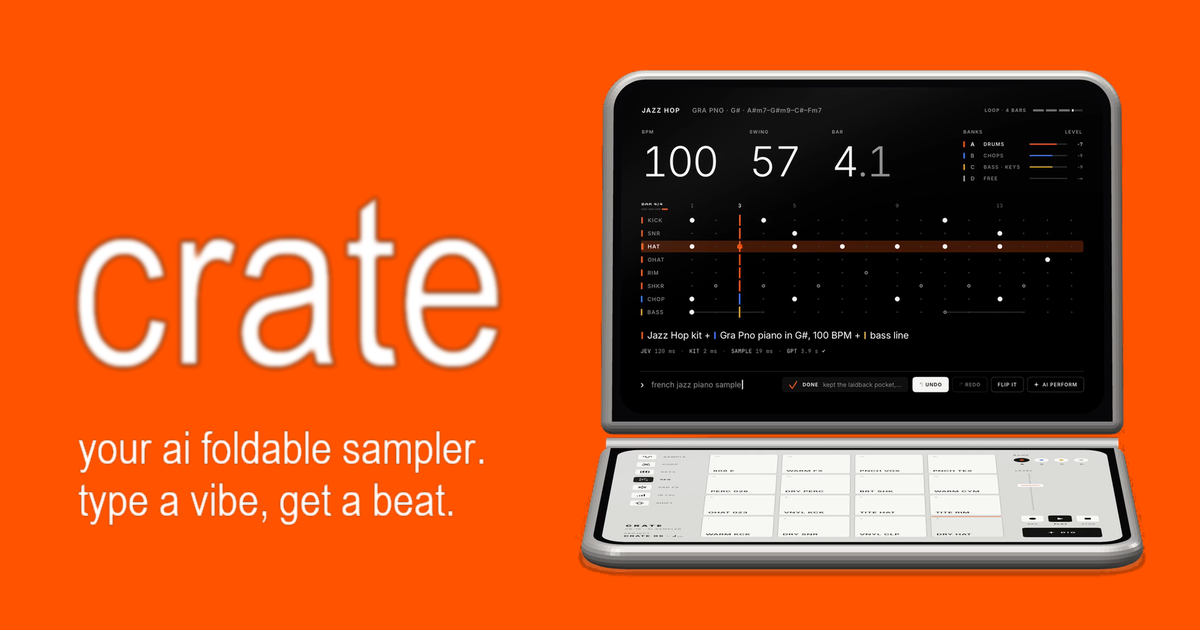
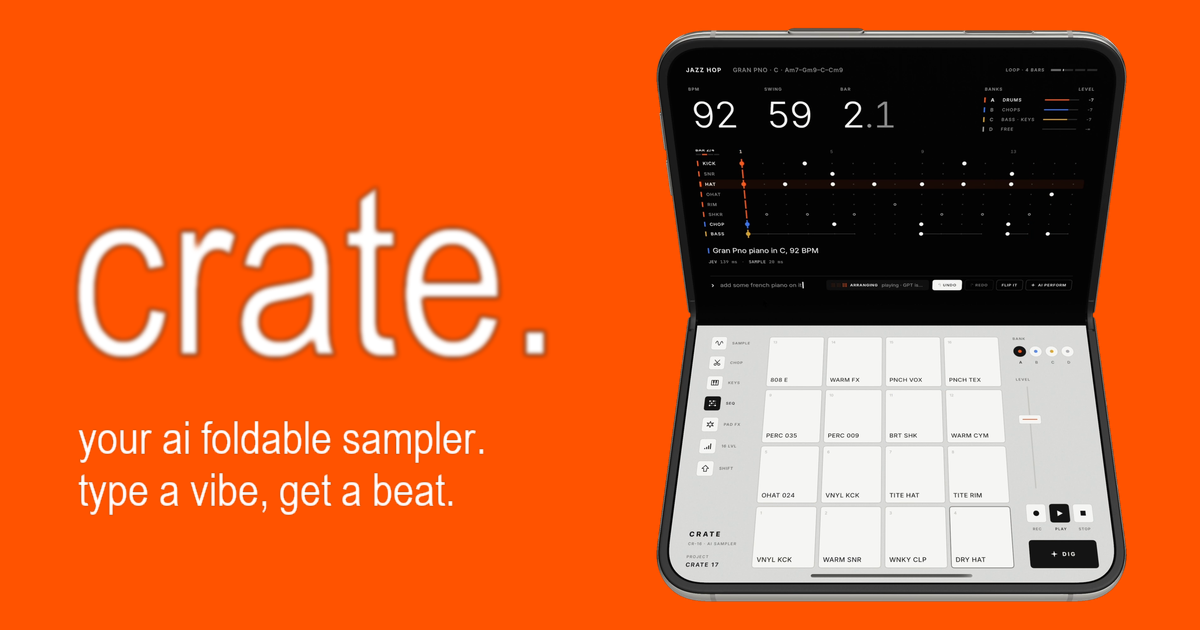
Site: real iPhone Duo (Bitrig) front-on laptop pose, bigger preview, new OG card

diff --git a/site/angle-a.html b/site/angle-a.html
@@ -35,7 +35,7 @@
     display: flex; flex-direction: column; align-items: center; justify-content: center;
     text-align: center;
   }
-  .word { margin-bottom: 28px; }
+  .word { margin-bottom: 18px; }
   .shot { width: 100%; margin: 0 0 28px; }
   .copy { margin: 0 0 32px; }
   #waitlist { width: 100%; max-width: 440px; margin: 0; }
@@ -44,7 +44,7 @@
   /* one typeface, one scale: 160 / 44 / 22 / 18 */
   .brat {
     font-family: var(--narrow); font-weight: 400;
-    font-size: clamp(130px, 22vh, 240px); line-height: .74; letter-spacing: -.035em;
+    font-size: clamp(130px, 22vh, 240px); line-height: .8; letter-spacing: -.035em;
     filter: blur(2.2px); margin: 0; user-select: none;
   }
   .copy {
@@ -72,14 +72,14 @@
   .note { min-height: 22px; font-size: 18px; margin: 10px 0 0; filter: var(--soft); }
 
   figure { margin: 0; }
-  figure img { width: auto; max-width: 100%; height: auto; max-height: 42vh; display: block; margin: 0 auto; }
+  figure img { width: auto; max-width: 100%; height: auto; max-height: 40vh; display: block; margin: 0 auto; }
 
   footer { font-size: 18px; filter: none; opacity: 1; }
 
   @media (max-width: 520px) {
     main { justify-content: flex-start; padding-block: 28px 32px; }
-    .brat { font-size: clamp(110px, 36vw, 170px); line-height: .74; }
-    .word { margin-bottom: 22px; }
+    .brat { font-size: clamp(110px, 36vw, 170px); }
+    .word { margin-bottom: 12px; }
     .shot { margin-bottom: 24px; }
     figure img { max-height: none; width: 100%; }
     .copy { font-size: clamp(26px, 7.4vw, 34px); margin-bottom: 24px; }
@@ -93,7 +93,7 @@
 <main>
   <div class="word"><h1 class="brat">crate.</h1></div>
   <figure class="shot">
-    <img src="duo-book.png" alt="crate running on an iphone duo: a beat on the top screen, 16 pads on the bottom screen.">
+    <img src="crate-duo-a.png" alt="crate running on an iphone duo: a beat on the top screen, 16 pads on the bottom screen.">
   </figure>
   <p class="copy">your ai foldable sampler.<br>type a vibe, get a beat.</p>
   <form id="waitlist" novalidate>

diff --git a/site/angle-b.html b/site/angle-b.html
@@ -35,7 +35,7 @@
     display: flex; flex-direction: column; align-items: center; justify-content: center;
     text-align: center;
   }
-  .word { margin-bottom: 28px; }
+  .word { margin-bottom: 18px; }
   .shot { width: 100%; margin: 0 0 28px; }
   .copy { margin: 0 0 32px; }
   #waitlist { width: 100%; max-width: 440px; margin: 0; }
@@ -44,7 +44,7 @@
   /* one typeface, one scale: 160 / 44 / 22 / 18 */
   .brat {
     font-family: var(--narrow); font-weight: 400;
-    font-size: clamp(130px, 22vh, 240px); line-height: .74; letter-spacing: -.035em;
+    font-size: clamp(130px, 22vh, 240px); line-height: .8; letter-spacing: -.035em;
     filter: blur(2.2px); margin: 0; user-select: none;
   }
   .copy {
@@ -72,14 +72,14 @@
   .note { min-height: 22px; font-size: 18px; margin: 10px 0 0; filter: var(--soft); }
 
   figure { margin: 0; }
-  figure img { width: auto; max-width: 100%; height: auto; max-height: 42vh; display: block; margin: 0 auto; }
+  figure img { width: auto; max-width: 100%; height: auto; max-height: 40vh; display: block; margin: 0 auto; }
 
   footer { font-size: 18px; filter: none; opacity: 1; }
 
   @media (max-width: 520px) {
     main { justify-content: flex-start; padding-block: 28px 32px; }
-    .brat { font-size: clamp(110px, 36vw, 170px); line-height: .74; }
-    .word { margin-bottom: 22px; }
+    .brat { font-size: clamp(110px, 36vw, 170px); }
+    .word { margin-bottom: 12px; }
     .shot { margin-bottom: 24px; }
     figure img { max-height: none; width: 100%; }
     .copy { font-size: clamp(26px, 7.4vw, 34px); margin-bottom: 24px; }
@@ -93,7 +93,7 @@
 <main>
   <div class="word"><h1 class="brat">crate.</h1></div>
   <figure class="shot">
-    <img src="duo-book.png" alt="crate running on an iphone duo: a beat on the top screen, 16 pads on the bottom screen.">
+    <img src="crate-duo-b.png" alt="crate running on an iphone duo: a beat on the top screen, 16 pads on the bottom screen.">
   </figure>
   <p class="copy">your ai foldable sampler.<br>type a vibe, get a beat.</p>
   <form id="waitlist" novalidate>

diff --git a/site/angle-c.html b/site/angle-c.html
@@ -35,7 +35,7 @@
     display: flex; flex-direction: column; align-items: center; justify-content: center;
     text-align: center;
   }
-  .word { margin-bottom: 28px; }
+  .word { margin-bottom: 18px; }
   .shot { width: 100%; margin: 0 0 28px; }
   .copy { margin: 0 0 32px; }
   #waitlist { width: 100%; max-width: 440px; margin: 0; }
@@ -44,7 +44,7 @@
   /* one typeface, one scale: 160 / 44 / 22 / 18 */
   .brat {
     font-family: var(--narrow); font-weight: 400;
-    font-size: clamp(130px, 22vh, 240px); line-height: .74; letter-spacing: -.035em;
+    font-size: clamp(130px, 22vh, 240px); line-height: .8; letter-spacing: -.035em;
     filter: blur(2.2px); margin: 0; user-select: none;
   }
   .copy {
@@ -72,14 +72,14 @@
   .note { min-height: 22px; font-size: 18px; margin: 10px 0 0; filter: var(--soft); }
 
   figure { margin: 0; }
-  figure img { width: auto; max-width: 100%; height: auto; max-height: 42vh; display: block; margin: 0 auto; }
+  figure img { width: auto; max-width: 100%; height: auto; max-height: 40vh; display: block; margin: 0 auto; }
 
   footer { font-size: 18px; filter: none; opacity: 1; }
 
   @media (max-width: 520px) {
     main { justify-content: flex-start; padding-block: 28px 32px; }
-    .brat { font-size: clamp(110px, 36vw, 170px); line-height: .74; }
-    .word { margin-bottom: 22px; }
+    .brat { font-size: clamp(110px, 36vw, 170px); }
+    .word { margin-bottom: 12px; }
     .shot { margin-bottom: 24px; }
     figure img { max-height: none; width: 100%; }
     .copy { font-size: clamp(26px, 7.4vw, 34px); margin-bottom: 24px; }
@@ -93,7 +93,7 @@
 <main>
   <div class="word"><h1 class="brat">crate.</h1></div>
   <figure class="shot">
-    <img src="duo-book.png" alt="crate running on an iphone duo: a beat on the top screen, 16 pads on the bottom screen.">
+    <img src="crate-duo-c.png" alt="crate running on an iphone duo: a beat on the top screen, 16 pads on the bottom screen.">
   </figure>
   <p class="copy">your ai foldable sampler.<br>type a vibe, get a beat.</p>
   <form id="waitlist" novalidate>

diff --git a/site/orange-v1.html b/site/orange-v1.html
@@ -35,7 +35,7 @@
     display: flex; flex-direction: column; align-items: center; justify-content: center;
     text-align: center;
   }
-  .word { margin-bottom: 28px; }
+  .word { margin-bottom: 18px; }
   .shot { width: 100%; margin: 0 0 28px; }
   .copy { margin: 0 0 32px; }
   #waitlist { width: 100%; max-width: 440px; margin: 0; }
@@ -44,7 +44,7 @@
   /* one typeface, one scale: 160 / 44 / 22 / 18 */
   .brat {
     font-family: var(--narrow); font-weight: 400;
-    font-size: clamp(130px, 22vh, 240px); line-height: .74; letter-spacing: -.035em;
+    font-size: clamp(130px, 22vh, 240px); line-height: .8; letter-spacing: -.035em;
     filter: blur(2.2px); margin: 0; user-select: none;
   }
   .copy {
@@ -72,14 +72,14 @@
   .note { min-height: 22px; font-size: 18px; margin: 10px 0 0; filter: var(--soft); }
 
   figure { margin: 0; }
-  figure img { width: auto; max-width: 100%; height: auto; max-height: 42vh; display: block; margin: 0 auto; }
+  figure img { width: auto; max-width: 100%; height: auto; max-height: 40vh; display: block; margin: 0 auto; }
 
   footer { font-size: 18px; filter: none; opacity: 1; }
 
   @media (max-width: 520px) {
     main { justify-content: flex-start; padding-block: 28px 32px; }
-    .brat { font-size: clamp(110px, 36vw, 170px); line-height: .74; }
-    .word { margin-bottom: 22px; }
+    .brat { font-size: clamp(110px, 36vw, 170px); }
+    .word { margin-bottom: 12px; }
     .shot { margin-bottom: 24px; }
     figure img { max-height: none; width: 100%; }
     .copy { font-size: clamp(26px, 7.4vw, 34px); margin-bottom: 24px; }
@@ -93,7 +93,7 @@
 <main>
   <div class="word"><h1 class="brat">crate.</h1></div>
   <figure class="shot">
-    <img src="duo-book.png" alt="crate running on an iphone duo: a beat on the top screen, 16 pads on the bottom screen.">
+    <img src="crate-duo.png" alt="crate running on an iphone duo: a beat on the top screen, 16 pads on the bottom screen.">
   </figure>
   <p class="copy">your ai foldable sampler.<br>type a vibe, get a beat.</p>
   <form id="waitlist" novalidate>

diff --git a/site/duo-laptop2.html b/site/duo-laptop2.html
@@ -72,7 +72,7 @@
   .note { min-height: 22px; font-size: 18px; margin: 10px 0 0; filter: var(--soft); }
 
   figure { margin: 0; }
-  figure img { width: auto; max-width: 100%; height: auto; max-height: 42vh; display: block; margin: 0 auto; }
+  figure img { width: auto; max-width: 100%; height: auto; max-height: 44vh; display: block; margin: 0 auto; }
 
   footer { font-size: 18px; filter: none; opacity: 1; }
 
@@ -93,7 +93,7 @@
 <main>
   <div class="word"><h1 class="brat">crate.</h1></div>
   <figure class="shot">
-    <img src="duo-book.png" alt="crate running on an iphone duo: a beat on the top screen, 16 pads on the bottom screen.">
+    <img src="duo-laptop2.png" alt="crate running on an iphone duo: a beat on the top screen, 16 pads on the bottom screen.">
   </figure>
   <p class="copy">your ai foldable sampler.<br>type a vibe, get a beat.</p>
   <form id="waitlist" novalidate>

diff --git a/site/duo-laptop.html b/site/duo-laptop.html
@@ -93,7 +93,7 @@
 <main>
   <div class="word"><h1 class="brat">crate.</h1></div>
   <figure class="shot">
-    <img src="duo-book.png" alt="crate running on an iphone duo: a beat on the top screen, 16 pads on the bottom screen.">
+    <img src="duo-laptop.png" alt="crate running on an iphone duo: a beat on the top screen, 16 pads on the bottom screen.">
   </figure>
   <p class="copy">your ai foldable sampler.<br>type a vibe, get a beat.</p>
   <form id="waitlist" novalidate>
